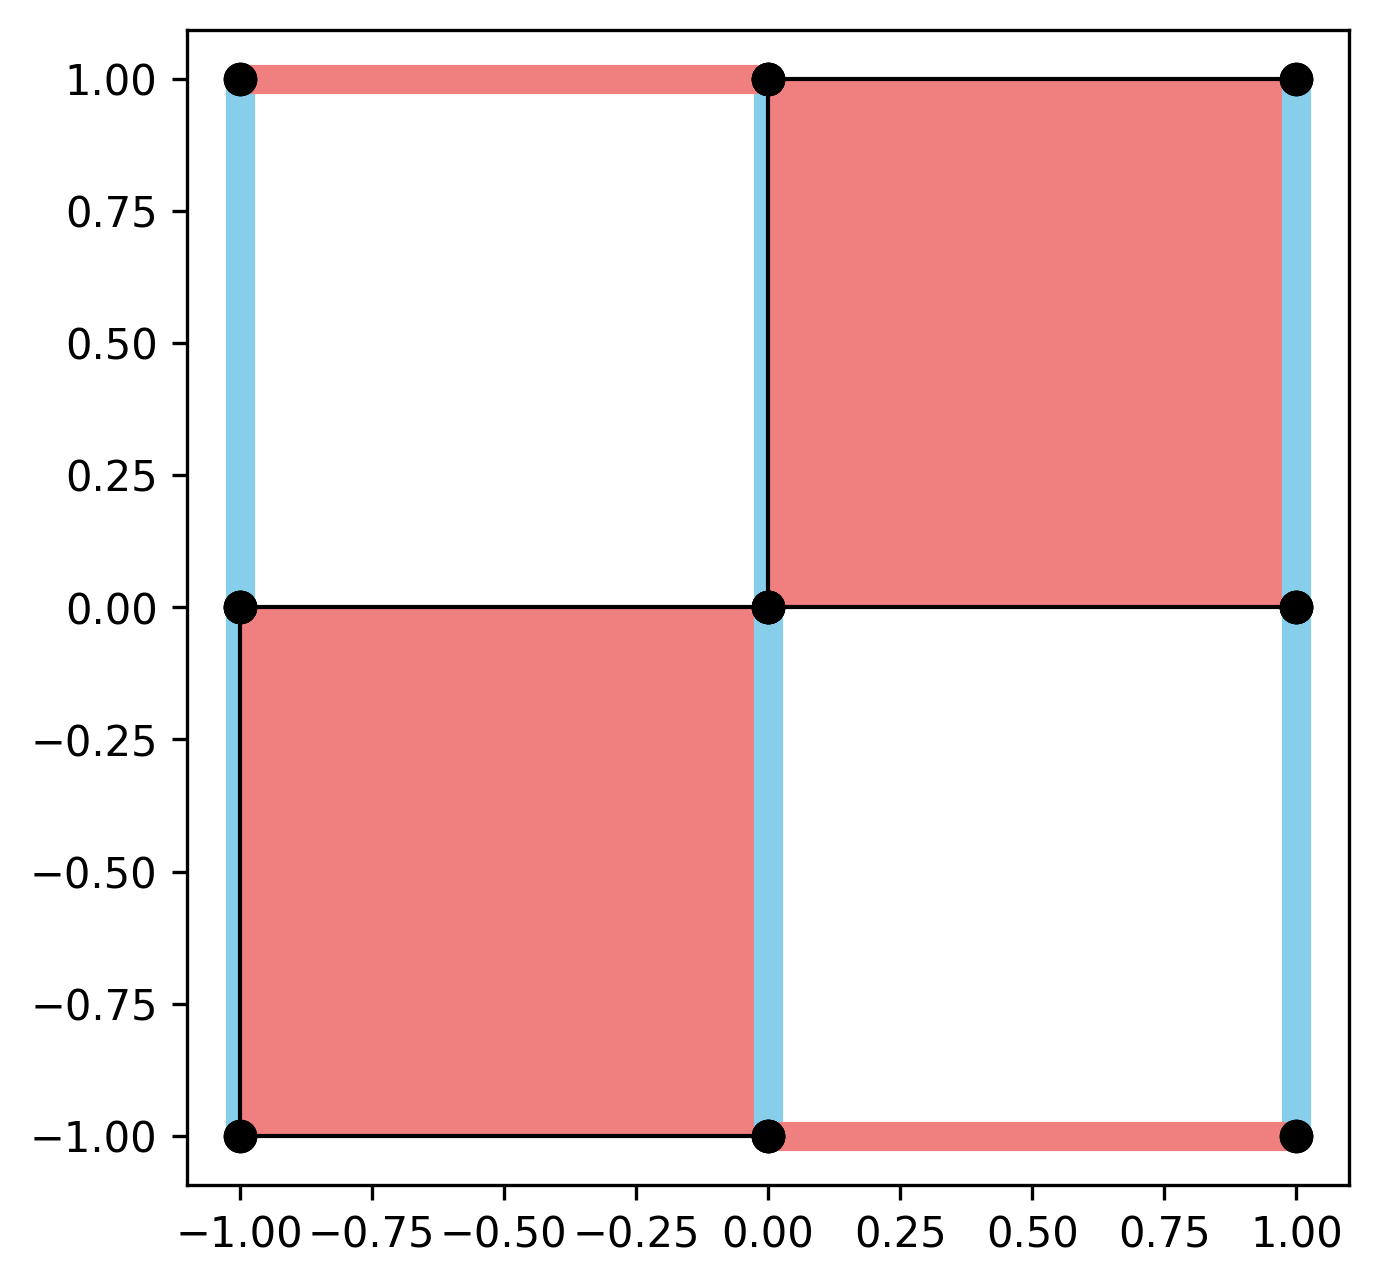
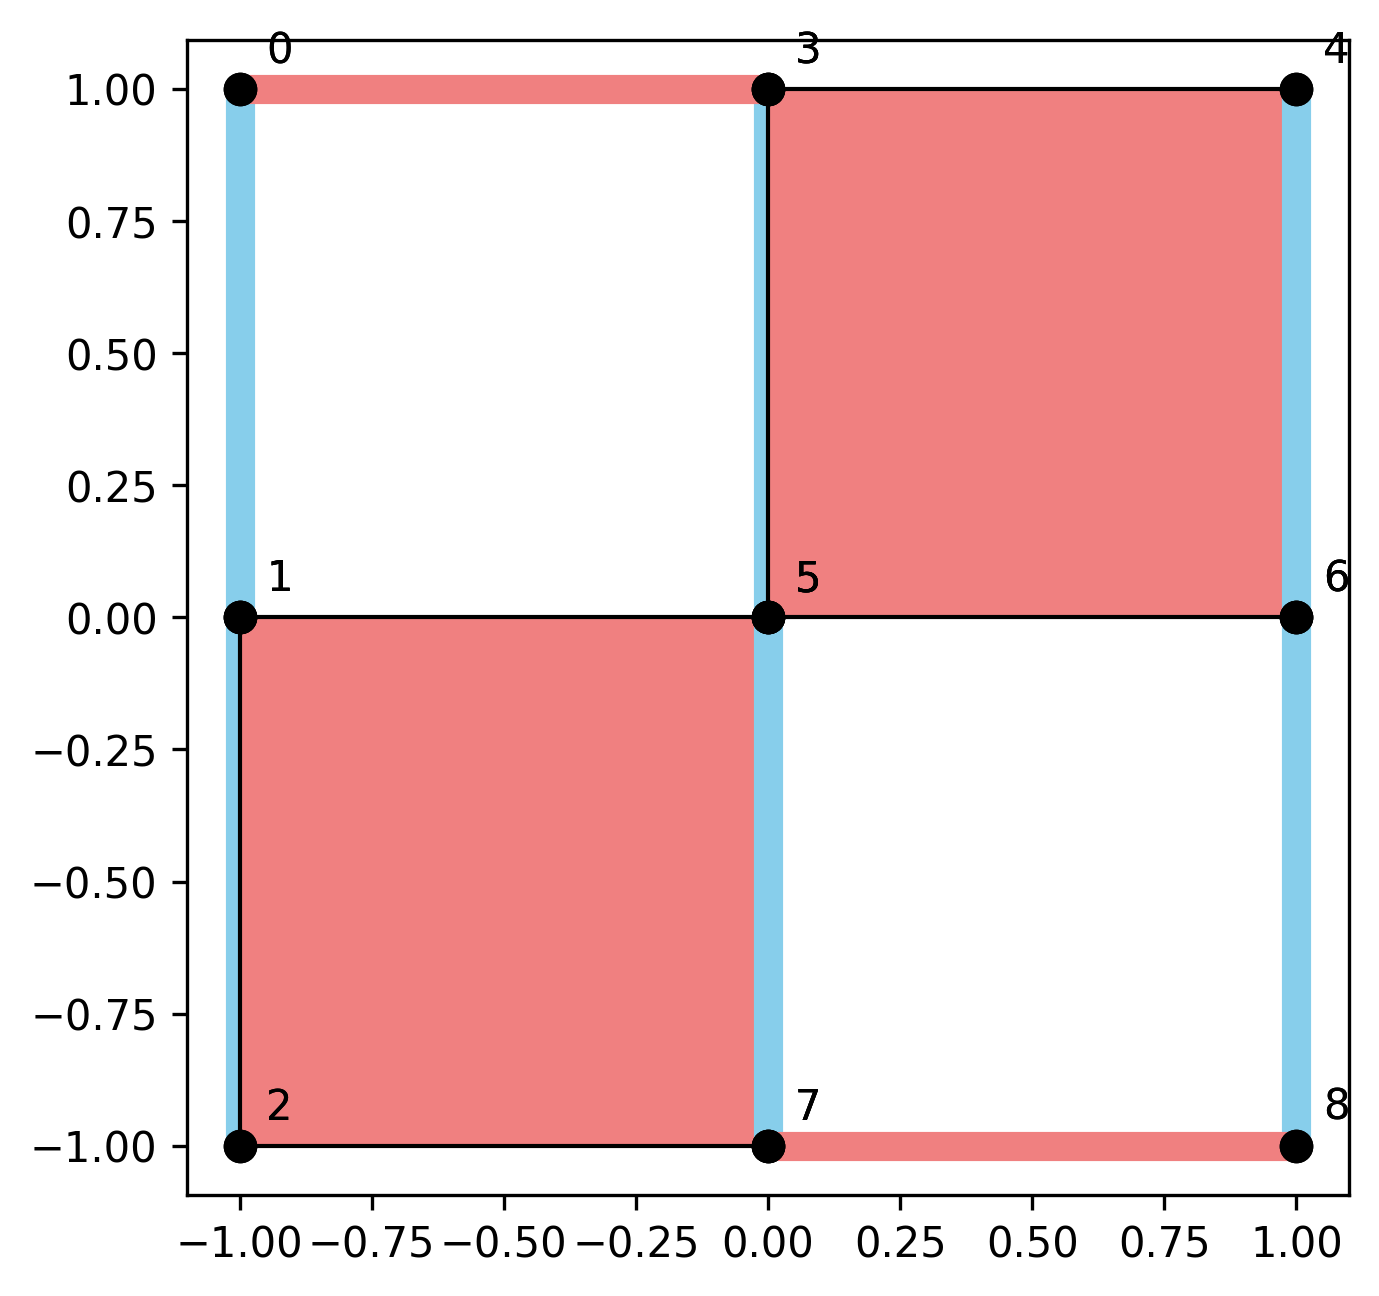
checkpoint

diff --git a/scripts/surgery_experiment.py b/scripts/surgery_experiment.py
@@ -33,6 +33,7 @@ import sys
 from dataclasses import dataclass
 from pathlib import Path
 from typing import List, Sequence, Tuple
+import matplotlib.pyplot as plt
 
 import stim
 
@@ -265,6 +266,27 @@ def build_cnot_surgery_circuit(
     # patch, laid out in a single index space [0, ..., n_total-1].
     single_model = build_surface_code_model(distance, code_type)
     
+
+     # Determine code name for display and file naming
+    code_name = "heavy-hex" if code_type == "heavy_hex" else "surface-code"
+    code_name_short = "heavy_hex" if code_type == "heavy_hex" else "surface_code"
+
+    # save the code tiling
+    plot_dir = PROJECT_ROOT / "plots"
+    plot_dir.mkdir(exist_ok=True)
+    fig = single_model.code.draw(
+        face_colors=False,
+        xcolor="lightcoral",
+        zcolor="skyblue",
+        figsize=(5, 5),
+        show_index=True,
+
+    )
+    plt.savefig(plot_dir / f"{code_name_short}_d{distance}.png", dpi=300, bbox_inches="tight")
+    plt.close(fig)
+
+    print(f"{code_name.capitalize()} tiling saved to {plot_dir}/{code_name_short}_d{distance}.png")
+
     # Identify smooth and rough boundary data qubits for correct seam placement.
     # The seam between C and INT should be placed on the smooth boundary
     # (for smooth merge), and the seam between INT and T on a rough boundary
